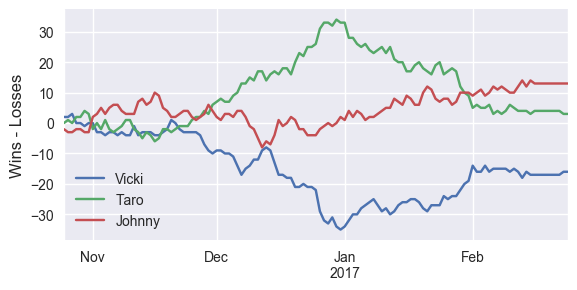
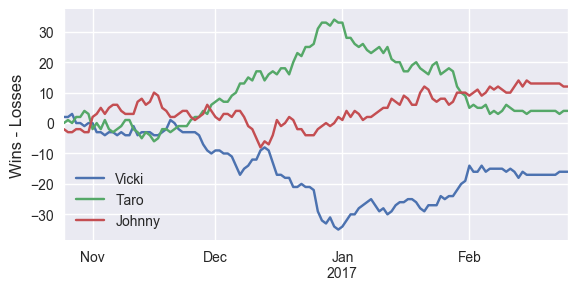
update 2/25

diff --git a/index.html b/index.html
@@ -35,7 +35,7 @@
 <a id="the-bet-is-on" class="anchor" href="#the-bet-is-on" aria-hidden="true"><span aria-hidden="true" class="octicon octicon-link"></span></a>The bet is on.</h1>
 
 <h1>
-<a id="current-winner-of-2016-17-season" class="anchor" href="#current-winner-of-2016-17-season" aria-hidden="true"><span aria-hidden="true" class="octicon octicon-link"></span></a>Current winner of 2016-17 Season (as of 2/24/2017):</h1>
+<a id="current-winner-of-2016-17-season" class="anchor" href="#current-winner-of-2016-17-season" aria-hidden="true"><span aria-hidden="true" class="octicon octicon-link"></span></a>Current winner of 2016-17 Season (as of 2/25/2017):</h1>
 
 <h2>
 <a id="none" class="anchor" href="#none" aria-hidden="true"><span aria-hidden="true" class="octicon octicon-link"></span></a><strong>Johnny</strong>
@@ -44,23 +44,23 @@
 <h2>
 <a id="johnny" class="anchor" href="Johnny.html" aria-hidden="true"><span aria-hidden="true" class="octicon octicon-link"></span>Johnny</a></h2>
 
-<p>Wins: 292<br>
-Losses: 279<br>
-Remaining wins available: 216</p>
+<p>Wins: 295<br>
+Losses: 283<br>
+Remaining wins available: 210</p>
 
 <h2>
 <a id="taro" class="anchor" href="Taro.html" aria-hidden="true"><span aria-hidden="true" class="octicon octicon-link"></span>Taro</a></h2>
 
-<p>Wins: 287<br>
-Losses: 284<br>
-Remaining wins available: 216</p>
+<p>Wins: 290<br>
+Losses: 286<br>
+Remaining wins available: 211</p>
 
 <h2>
 <a id="vicki" class="anchor" href="Vicki.html" aria-hidden="true"><span aria-hidden="true" class="octicon octicon-link"></span>Vicki</a></h2>
 
-<p>Wins: 276<br>
-Losses: 292<br>
-Remaining wins available: 214</p>
+<p>Wins: 280<br>
+Losses: 296<br>
+Remaining wins available: 208</p>
 
 <img src='pythoncode/win_percent.png' alt='Winning Percentage Over Time'>
 <h1>

diff --git a/Vicki.html b/Vicki.html
@@ -35,9 +35,9 @@
 
 <h2>Vicki</h2>
 
-<p>Wins: 276<br>
-Losses: 292<br>
-Remaining wins available: 214</p>
+<p>Wins: 280<br>
+Losses: 296<br>
+Remaining wins available: 208</p>
 
 <h2> Current teams </h2>
 <table border="1">
@@ -49,15 +49,15 @@ Remaining wins available: 214</p>
 </tr>
 <tr>
 <td>Heat</td>
-<td>25</td>
+<td>26</td>
 <td>32</td>
-<td>25</td>
+<td>24</td>
 </tr>
 <tr>
 <td>Mavericks</td>
 <td>22</td>
-<td>34</td>
-<td>26</td>
+<td>35</td>
+<td>25</td>
 </tr>
 <tr>
 <td>Trail Blazers</td>
@@ -73,39 +73,39 @@ Remaining wins available: 214</p>
 </tr>
 <tr>
 <td>Bulls</td>
-<td>28</td>
 <td>29</td>
-<td>25</td>
+<td>29</td>
+<td>24</td>
 </tr>
 <tr>
 <td>76ers</td>
-<td>21</td>
+<td>22</td>
 <td>35</td>
-<td>26</td>
+<td>25</td>
 </tr>
 <tr>
 <td>Grizzlies</td>
 <td>34</td>
-<td>24</td>
-<td>24</td>
+<td>25</td>
+<td>23</td>
 </tr>
 <tr>
 <td>Clippers</td>
 <td>35</td>
-<td>22</td>
-<td>25</td>
+<td>23</td>
+<td>24</td>
 </tr>
 <tr>
 <td>Suns</td>
 <td>18</td>
-<td>39</td>
-<td>25</td>
+<td>40</td>
+<td>24</td>
 </tr>
 <tr>
 <td>Pacers</td>
-<td>29</td>
+<td>30</td>
 <td>28</td>
-<td>25</td>
+<td>24</td>
 </tr>
 </table>
 

diff --git a/Johnny.html b/Johnny.html
@@ -35,9 +35,9 @@
 
 <h2>Johnny</h2>
 
-<p>Wins: 292<br>
-Losses: 279<br>
-Remaining wins available: 216</p>
+<p>Wins: 295<br>
+Losses: 283<br>
+Remaining wins available: 210</p>
 
 <h2> Current teams </h2>
 <table border="1">
@@ -50,8 +50,8 @@ Remaining wins available: 216</p>
 <tr>
 <td>Bucks</td>
 <td>25</td>
-<td>30</td>
-<td>27</td>
+<td>31</td>
+<td>26</td>
 </tr>
 <tr>
 <td>Warriors</td>
@@ -61,21 +61,21 @@ Remaining wins available: 216</p>
 </tr>
 <tr>
 <td>Timberwolves</td>
-<td>22</td>
+<td>23</td>
 <td>35</td>
-<td>25</td>
+<td>24</td>
 </tr>
 <tr>
 <td>Hawks</td>
 <td>32</td>
-<td>24</td>
-<td>26</td>
+<td>25</td>
+<td>25</td>
 </tr>
 <tr>
 <td>Celtics</td>
 <td>37</td>
-<td>20</td>
-<td>25</td>
+<td>21</td>
+<td>24</td>
 </tr>
 <tr>
 <td>Pistons</td>
@@ -85,21 +85,21 @@ Remaining wins available: 216</p>
 </tr>
 <tr>
 <td>Nuggets</td>
-<td>25</td>
+<td>26</td>
 <td>32</td>
-<td>25</td>
+<td>24</td>
 </tr>
 <tr>
 <td>Jazz</td>
-<td>35</td>
+<td>36</td>
 <td>22</td>
-<td>25</td>
+<td>24</td>
 </tr>
 <tr>
 <td>Lakers</td>
 <td>19</td>
-<td>39</td>
-<td>24</td>
+<td>40</td>
+<td>23</td>
 </tr>
 <tr>
 <td>Magic</td>

diff --git a/Taro.html b/Taro.html
@@ -35,9 +35,9 @@
 
 <h2>Taro</h2>
 
-<p>Wins: 287<br>
-Losses: 284<br>
-Remaining wins available: 216</p>
+<p>Wins: 290<br>
+Losses: 286<br>
+Remaining wins available: 211</p>
 
 <h2> Current teams </h2>
 <table border="1">
@@ -56,26 +56,26 @@ Remaining wins available: 216</p>
 <tr>
 <td>Nets</td>
 <td>9</td>
-<td>47</td>
-<td>26</td>
+<td>48</td>
+<td>25</td>
 </tr>
 <tr>
 <td>Thunder</td>
-<td>32</td>
+<td>33</td>
 <td>25</td>
-<td>25</td>
+<td>24</td>
 </tr>
 <tr>
 <td>Raptors</td>
-<td>33</td>
+<td>34</td>
 <td>24</td>
-<td>25</td>
+<td>24</td>
 </tr>
 <tr>
 <td>Spurs</td>
-<td>43</td>
+<td>44</td>
 <td>13</td>
-<td>26</td>
+<td>25</td>
 </tr>
 <tr>
 <td>Hornets</td>
@@ -92,8 +92,8 @@ Remaining wins available: 216</p>
 <tr>
 <td>Wizards</td>
 <td>34</td>
-<td>21</td>
-<td>27</td>
+<td>22</td>
+<td>26</td>
 </tr>
 <tr>
 <td>Kings</td>
